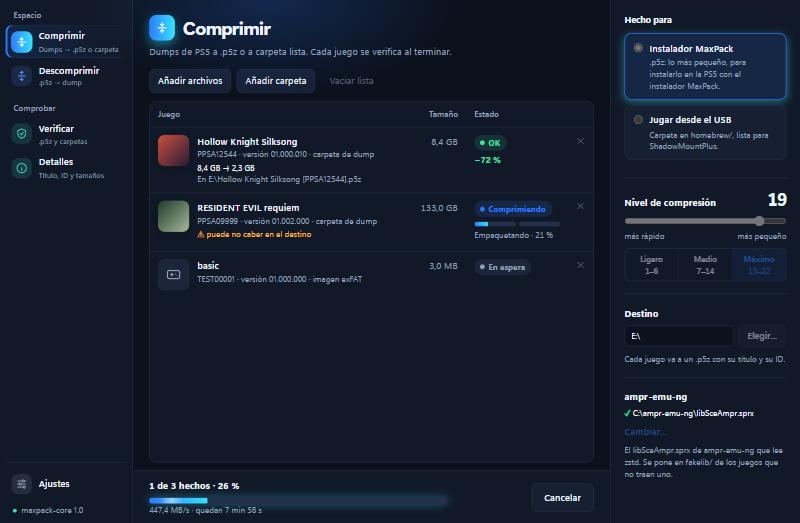
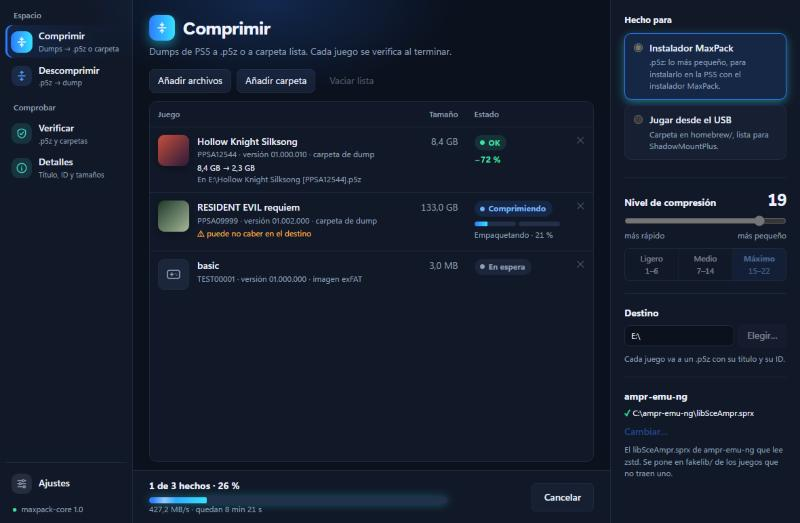
Ventana: el final se puede desplazar en una ventana baja, y el azul y el verde pequeños se leen bien

diff --git a/gui/frontend/style.css b/gui/frontend/style.css
@@ -8,6 +8,8 @@
 :root {
   --bg: #0b111d; --panel: #111827; --raised: #172033; --line: #222d42; --text: #eef3ff; --muted: #93a0b8;
   --accent: #2d7dff; --accent-2: #36e2ff; --accent-soft: rgba(45, 125, 255, .14); --accent-text: #04111f;
+  /* the blue of small text on --accent-soft: --accent itself reads below 4.5:1 there */
+  --accent-ink: #7fb8ff;
   --ok: #3fe3a2; --ok-soft: rgba(63, 227, 162, .13); --bad: #ff5c73; --bad-soft: rgba(255, 92, 115, .12);
   --warn: #ffb547; --bar: #24304a; --hover: #1c263a; --focus: #7fb8ff;
   --radius: 10px; --radius-small: 8px;
@@ -24,8 +26,8 @@
 @media (prefers-color-scheme: light) {
   :root:not([data-theme="dark"]) {
     --bg: #eef2f8; --panel: #fff; --raised: #f5f7fb; --line: #dde3ec; --text: #111a2b; --muted: #5b667a;
-    --accent: #1b6ef3; --accent-2: #0a9fd0; --accent-soft: rgba(27, 110, 243, .09); --accent-text: #fff;
-    --ok: #0b7d57; --ok-soft: rgba(11, 125, 87, .1); --bad: #d02a43; --bad-soft: rgba(208, 42, 67, .08);
+    --accent: #1b6ef3; --accent-2: #0a9fd0; --accent-soft: rgba(27, 110, 243, .09); --accent-text: #fff; --accent-ink: #1259d6;
+    --ok: #0a7350; --ok-soft: rgba(10, 115, 80, .1); --bad: #d02a43; --bad-soft: rgba(208, 42, 67, .08);
     --warn: #9a5a00; --bar: #e3e8ef; --hover: #edf1f7; --focus: #1b6ef3;
     --tone-space: #1b6ef3; --tone-check: #0b8f88; --tone-neutral: #5b667a; --tile-on: #fff;
     --grad: linear-gradient(90deg, #1b6ef3, #0a9fd0);
@@ -37,8 +39,8 @@
 }
 :root[data-theme="light"] {
   --bg: #eef2f8; --panel: #fff; --raised: #f5f7fb; --line: #dde3ec; --text: #111a2b; --muted: #5b667a;
-  --accent: #1b6ef3; --accent-2: #0a9fd0; --accent-soft: rgba(27, 110, 243, .09); --accent-text: #fff;
-  --ok: #0b7d57; --ok-soft: rgba(11, 125, 87, .1); --bad: #d02a43; --bad-soft: rgba(208, 42, 67, .08);
+  --accent: #1b6ef3; --accent-2: #0a9fd0; --accent-soft: rgba(27, 110, 243, .09); --accent-text: #fff; --accent-ink: #1259d6;
+  --ok: #0a7350; --ok-soft: rgba(10, 115, 80, .1); --bad: #d02a43; --bad-soft: rgba(208, 42, 67, .08);
   --warn: #9a5a00; --bar: #e3e8ef; --hover: #edf1f7; --focus: #1b6ef3;
   --tone-space: #1b6ef3; --tone-check: #0b8f88; --tone-neutral: #5b667a; --tile-on: #fff;
   --grad: linear-gradient(90deg, #1b6ef3, #0a9fd0);
@@ -204,7 +206,7 @@ td.remove button { padding: 2px 8px; }
 .badge.error { color: var(--bad); background: var(--bad-soft); }
 .badge.skipped, .badge.cancelled { color: var(--warn); background: color-mix(in srgb, var(--warn) 14%, transparent); }
 .badge.waiting { color: var(--muted); background: var(--hover); }
-.badge.work { color: var(--accent); background: var(--accent-soft); }
+.badge.work { color: var(--accent-ink); background: var(--accent-soft); }
 @keyframes blink { 50% { opacity: .25; } }
 .badge.work::before { animation: blink 1.2s ease-in-out infinite; }
 /* the bar of a game, a part for each step (compress, then verify), each in its color; a fill is
@@ -244,7 +246,7 @@ aside { width: 280px; flex: none; border-left: 1px solid var(--line); padding: 2
 .segmented { display: flex; margin-top: 10px; border: 1px solid var(--line); border-radius: var(--radius-small); overflow: hidden; }
 .segmented button { flex: 1; border: none; border-radius: 0; font-size: 12px; padding: 6px 10px; background: transparent; }
 .segmented button + button { border-left: 1px solid var(--line); }
-.segmented button.on { background: var(--accent-soft); color: var(--accent); font-weight: 700; }
+.segmented button.on { background: var(--accent-soft); color: var(--accent-ink); font-weight: 700; }
 .segmented button:focus-visible { outline-offset: -3px; border-radius: 4px; }
 .segmented button:active:not(:disabled) { transform: none; }
 /* the levels each shortcut covers, under its name */
@@ -311,7 +313,7 @@ dialog p { margin: 8px 0; }
 .space-list b { overflow-wrap: anywhere; font-weight: 600; user-select: text; -webkit-user-select: text; }
 .space-list span { color: var(--muted); font-size: 13px; }
 /* the card at the end of a queue */
-#done-dialog { --done-tone: var(--ok); max-width: 480px; overflow: hidden; background: linear-gradient(165deg, color-mix(in srgb, var(--accent) 16%, var(--panel)), var(--panel) 60%); border-top: 3px solid var(--done-tone); }
+#done-dialog { --done-tone: var(--ok); max-width: 480px; overflow-x: hidden; background: linear-gradient(165deg, color-mix(in srgb, var(--accent) 16%, var(--panel)), var(--panel) 60%); border-top: 3px solid var(--done-tone); }
 #done-dialog.failed { --done-tone: var(--bad); }
 .done-saved { font: 800 30px/1.15 var(--display); letter-spacing: -.02em; color: var(--ok); margin: 6px 0 2px; font-variant-numeric: tabular-nums; }
 .done-top { margin: 0; padding-left: 20px; display: flex; flex-direction: column; gap: 4px; }
